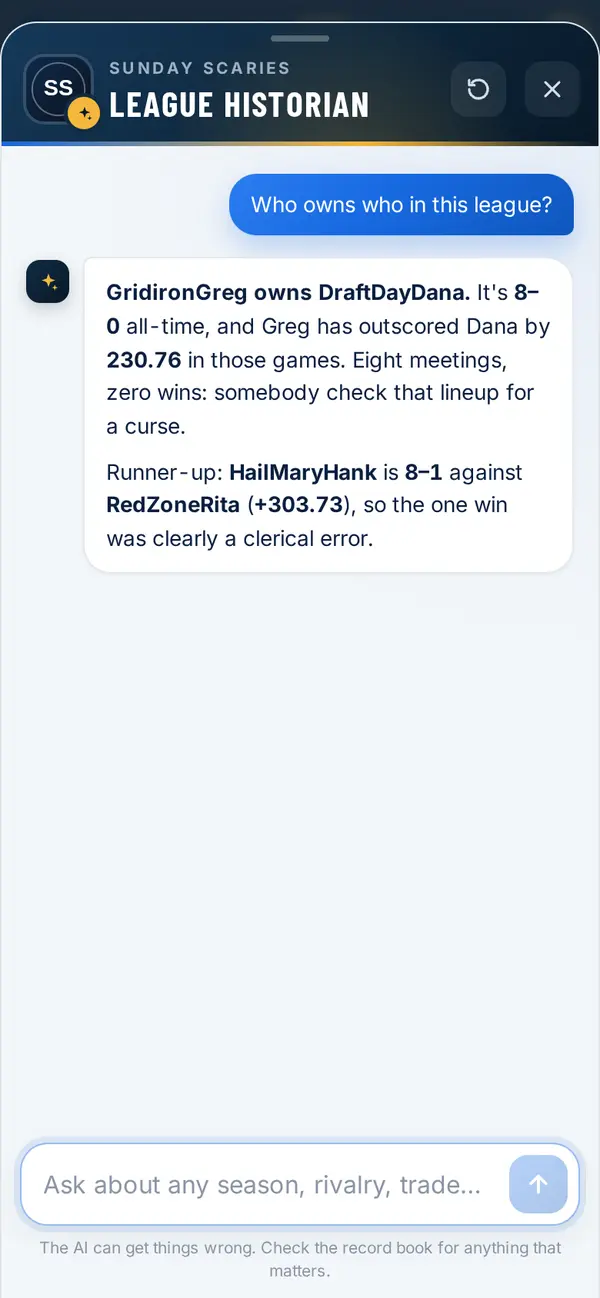
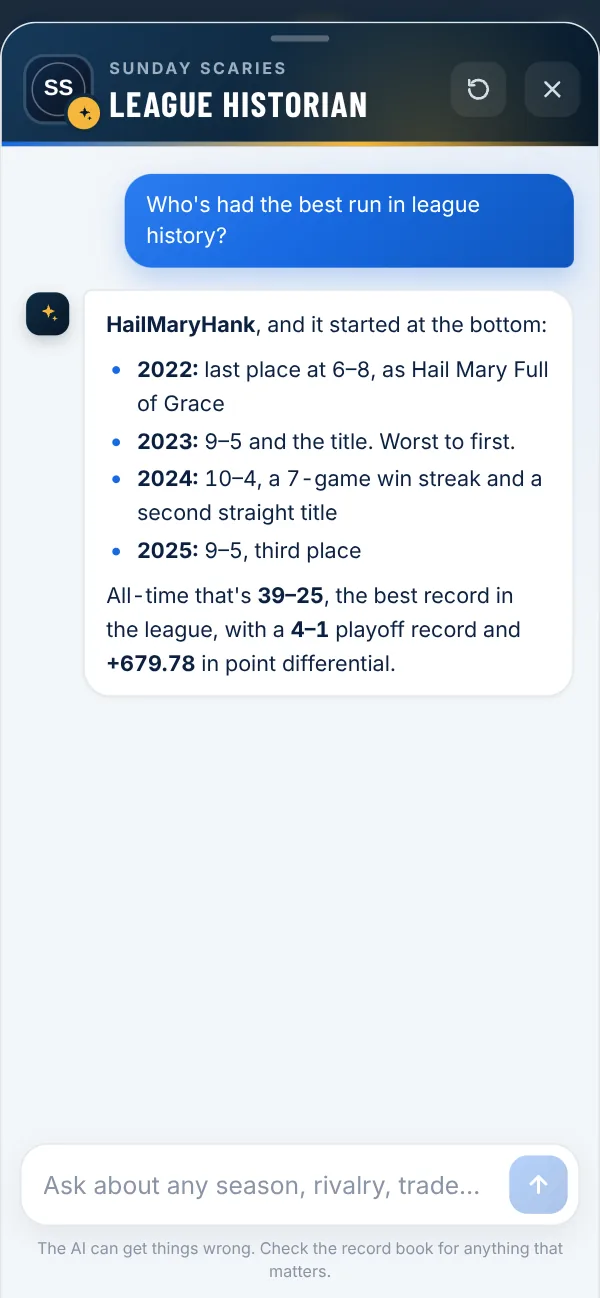
Reframe the landing page's AI pitch as the league's own historian
Drops the receipts / trash-talk framing: new meta description, AI
feature heading, copy and example questions, a hero card quoting a
player's history, and fresh chat-m.webp and og.jpg images showing a
deeper question about the demo league's best run.

Claude-Session: https://claude.ai/code/session_01SmxtnSbbKT2GrMCgucRKfi

diff --git a/index.html b/index.html
@@ -3,7 +3,7 @@
 <head>
   <meta charset="UTF-8" />
   <meta name="viewport" content="width=device-width, initial-scale=1.0" />
-  <meta name="description" content="Pigskin Pantheon turns your Sleeper or ESPN fantasy football league's history into weekly recaps, an all-time record book, a 3D trophy room and an AI historian that talks trash with receipts. Free, and set up in a minute." />
+  <meta name="description" content="Pigskin Pantheon turns your Sleeper or ESPN fantasy football league's history into weekly recaps, an all-time record book, a 3D trophy room and an AI historian that knows your league's whole history. Free, and set up in a minute." />
   <title>Pigskin Pantheon · Your Fantasy League's Hall of Fame, for Sleeper and ESPN</title>
   <link rel="canonical" href="https://pigskinpantheon.com/" />
   <meta property="og:type" content="website" />
@@ -1871,7 +1871,7 @@
         </div>
         <div class="lp-float lp-float-ai">
           <span class="lp-float-mark"><svg viewBox="0 0 16 16"><path d="M8 1.6l1.5 4.2 4.3 1.6-4.3 1.6L8 13.2 6.5 9 2.2 7.4l4.3-1.6z"/></svg></span>
-          <span><b>GridironGreg is 8–0</b> against DraftDayDana. Somebody check that lineup for a curse.</span>
+          <span><b>Justin Jefferson</b> has started 66 games for GridironGreg, all five seasons.</span>
         </div>
         <div class="lp-float lp-float-cup">
           <span class="lp-float-emoji">🏆</span>
@@ -1891,16 +1891,16 @@
 
       <article class="lp-feature lp-feature-flip lp-feature-ai">
         <div class="lp-feature-copy">
-          <h3>Ask anything. Get roasted with receipts.</h3>
-          <p>An AI that has read every score, trade, waiver claim, draft and lineup your league ever made. Ask who owns who, who choked in the playoffs or who lost the worst trade ever. It answers in seconds, with the numbers, and a little smack.</p>
+          <h3>Your league's own historian.</h3>
+          <p>An AI that has read every score, trade, waiver claim, draft and lineup your league ever made. Ask about any season, champion, rivalry, trade or player and it answers in seconds, with the numbers from your league's own history.</p>
           <div class="lp-asks">
-            <span>"Who's the biggest playoff choker?"</span>
-            <span>"Worst trade in league history?"</span>
-            <span>"How many points has Greg left on his bench?"</span>
+            <span>"Who's had the best run in league history?"</span>
+            <span>"How did the 2023 champion get there?"</span>
+            <span>"Which player has meant the most to my team?"</span>
           </div>
         </div>
         <div class="lp-feature-art lp-art-phone">
-          <div class="lp-phone"><img src="img/landing/chat-m.webp" alt="The League Historian answering: GridironGreg is 8–0 all-time against DraftDayDana" width="600" height="1298" loading="lazy" /></div>
+          <div class="lp-phone"><img src="img/landing/chat-m.webp" alt="The League Historian answering: HailMaryHank went from last place in 2022 to back-to-back titles" width="600" height="1298" loading="lazy" /></div>
         </div>
       </article>
 
